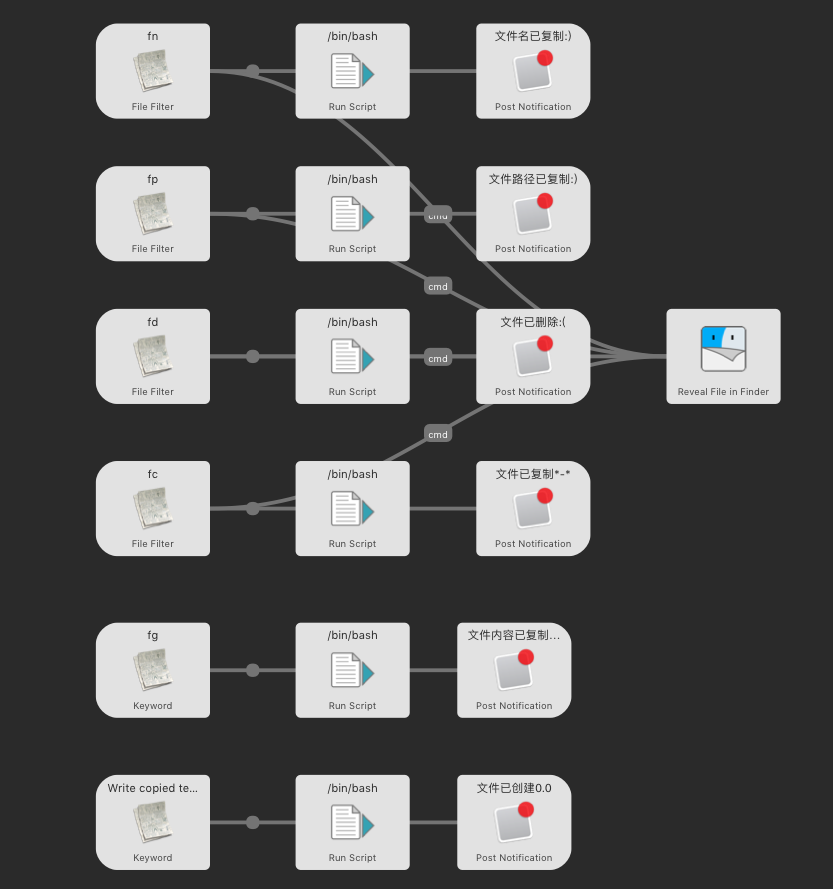
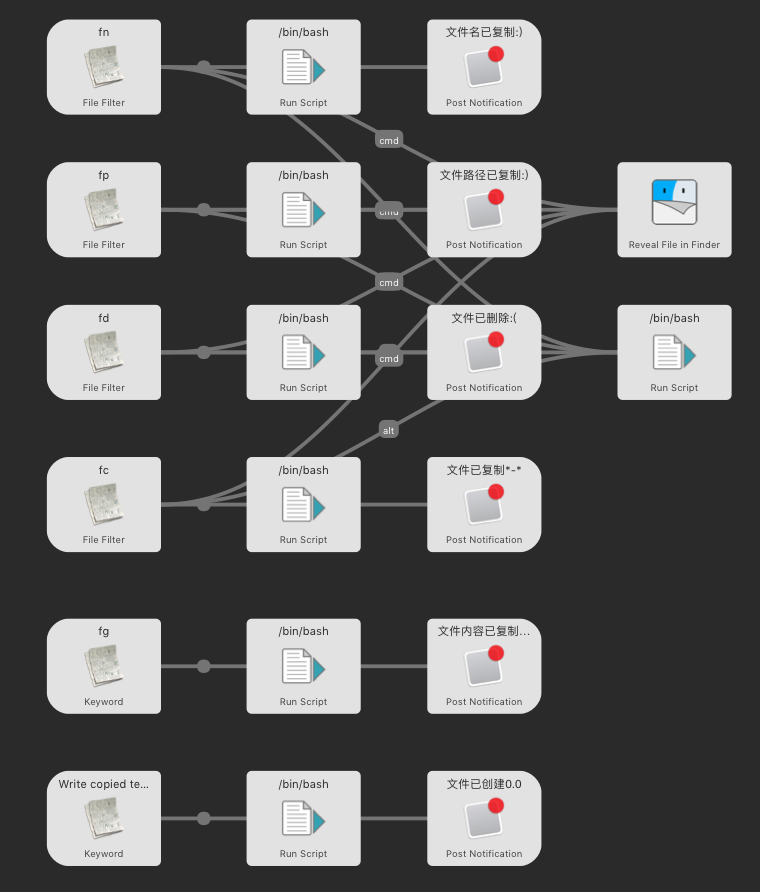
Update File Operation.alfredworkflow

Changed region(s): [[0.0605, 0.0, 0.9684, 0.6378], [0.0605, 0.6682, 0.7263, 0.82], [0.0605, 0.8504, 0.7263, 1.0]]

diff --git a/file-operation/README.md b/file-operation/README.md
@@ -12,8 +12,12 @@
 
 - **cf**：first copy the text content, then input the file name you want create, the text content will be written to the file in the ~/temp directory 
 
-> press `cmd + return` can reveal file in finder / press `shift` preview the file
+> press `cmd + return` to reveal file in finder
+> press `alt + return`  to open file directory path(s) in terminal(the default iTerm)
+> press `shift` to preview the file
 
 ![image](https://github.com/anzhihe/Efficient-office/blob/master/file-operation/File%20Operation.png) 
 
 Use Alfred operation file: https://chegva.com/3485.html
+
+> 2022-01-13 Add function：open file directory path(s) in terminal(the default iTerm)
